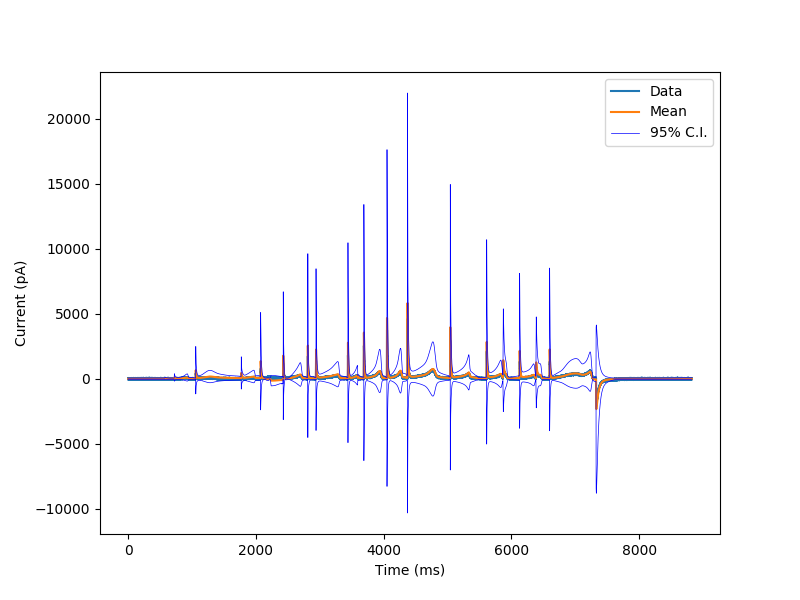
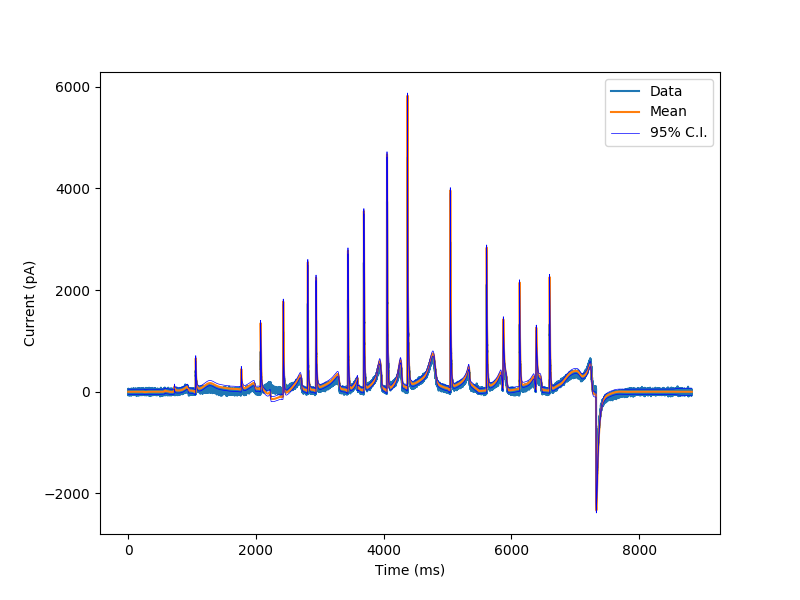
Fix bugs

diff --git a/ion-channel-models/posterior-gp.py b/ion-channel-models/posterior-gp.py
@@ -132,11 +132,8 @@ training_data = data_train.reshape((-1,))
 t_training_protocol = times_train.reshape((-1, 1)) 
 ind_t = inducing_times_train.reshape((-1, 1))
 t_valid_protocol = times.reshape((-1, 1)) 
-n_time = len(t_training_protocol)
-n_inducing_time = len(ind_t)
 ppc_sampler_mean, ppc_sampler_var = _create_theano_conditional_graph(
-        training_data, t_training_protocol,
-        ind_t, n_time, n_inducing_time, t_valid_protocol)
+        training_data, t_training_protocol, ind_t, t_valid_protocol)
 nds = 3  # Number of discrepancy parameters
 
 #for ind in random.sample(range(0, np.size(ppc_samples, axis=0)), 100):
@@ -164,7 +161,7 @@ ppc_mean = np.mean(gp_ppc_mean, axis=0)
 var1 = np.mean(gp_ppc_var, axis=0)
 var2 = np.mean(np.power(gp_ppc_mean, 2), axis=0)
 var3 = np.power(np.mean(gp_ppc_mean, axis=0), 2)
-ppc_sd = np.sqrt(var1 + var2 + var3)
+ppc_sd = np.sqrt(var1 + var2 - var3)
 
 plt.figure(figsize=(8, 6))
 plt.plot(times, data, label='Data')

diff --git a/ion-channel-models/method/sparse_gp_custom_likelihood.py b/ion-channel-models/method/sparse_gp_custom_likelihood.py
@@ -110,8 +110,7 @@ def _create_theano_likelihood_graph(data, t, ind_t, n_time, n_inducing_time,
             on_unused_input='ignore')
 
 
-def _create_theano_conditional_graph(data, t, ind_t, n_time, n_inducing_time,
-        t_new, approx='FITC'):
+def _create_theano_conditional_graph(data, t, ind_t, t_new, approx='FITC'):
     rho = tt.dscalar('rho')
     ker_sigma = tt.dscalar('ker_sigma')
     sigma = tt.dscalar('sigma')
@@ -147,7 +146,7 @@ def _create_theano_conditional_graph(data, t, ind_t, n_time, n_inducing_time,
             + tt.dot(tt.transpose(As), solve_upper(tt.transpose(L_B), c))
     C = solve_lower(L_B, As)
 
-    Kss = cov_func(t_new, diag=True)
+    Kss = cov_func(time_new, diag=True)
     var = Kss - tt.sum(tt.square(As), 0) + tt.sum(tt.square(C), 0)
     var += sigma2
 

diff --git a/ion-channel-models/mcmc-arma-invertible.py b/ion-channel-models/mcmc-arma-invertible.py
@@ -244,7 +244,7 @@ ppc_mean = np.mean(armax_mean, axis=0)
 var1 = np.mean(armax_sd**2, axis=0)
 var2 = np.mean(armax_mean**2, axis=0)
 var3 = (np.mean(armax_mean, axis=0))**2
-ppc_sd = np.sqrt(var1 + var2 + var3)
+ppc_sd = np.sqrt(var1 + var2 - var3)
 
 plt.figure(figsize=(8, 6))
 plt.plot(times, data, label='Model C')

diff --git a/ion-channel-models/mcmc-arma.py b/ion-channel-models/mcmc-arma.py
@@ -245,7 +245,7 @@ ppc_mean = np.mean(armax_mean, axis=0)
 var1 = np.mean(armax_sd**2, axis=0)
 var2 = np.mean(armax_mean**2, axis=0)
 var3 = (np.mean(armax_mean, axis=0))**2
-ppc_sd = np.sqrt(var1 + var2 + var3)
+ppc_sd = np.sqrt(var1 + var2 - var3)
 
 plt.figure(figsize=(8, 6))
 plt.plot(times, data, label='Model C')

diff --git a/ion-channel-models/posterior-arma.py b/ion-channel-models/posterior-arma.py
@@ -149,7 +149,7 @@ ppc_mean = np.mean(armax_mean, axis=0)
 var1 = np.mean(armax_sd**2, axis=0)
 var2 = np.mean(armax_mean**2, axis=0)
 var3 = (np.mean(armax_mean, axis=0))**2
-ppc_sd = np.sqrt(var1 + var2 + var3)
+ppc_sd = np.sqrt(var1 + var2 - var3)
 
 plt.figure(figsize=(8, 6))
 plt.plot(times, data, label='Data')
